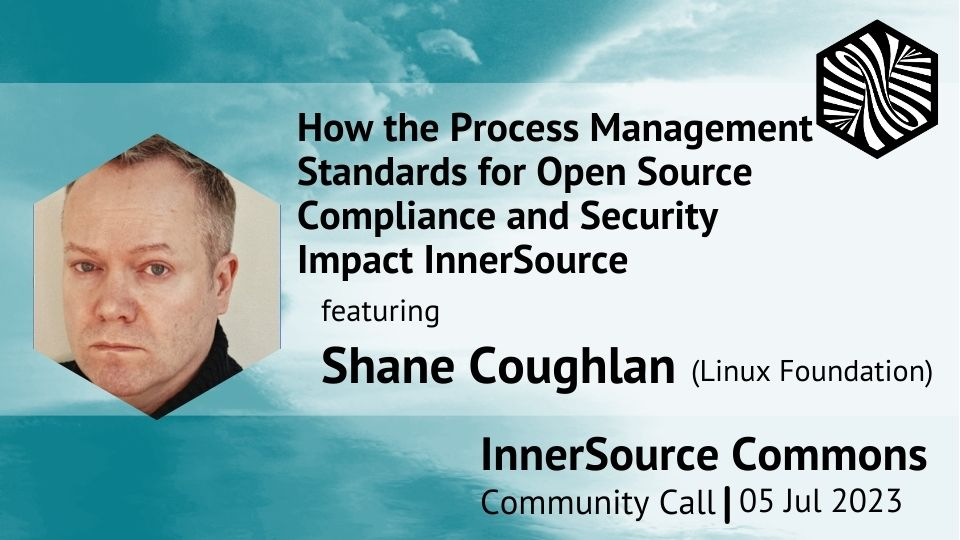
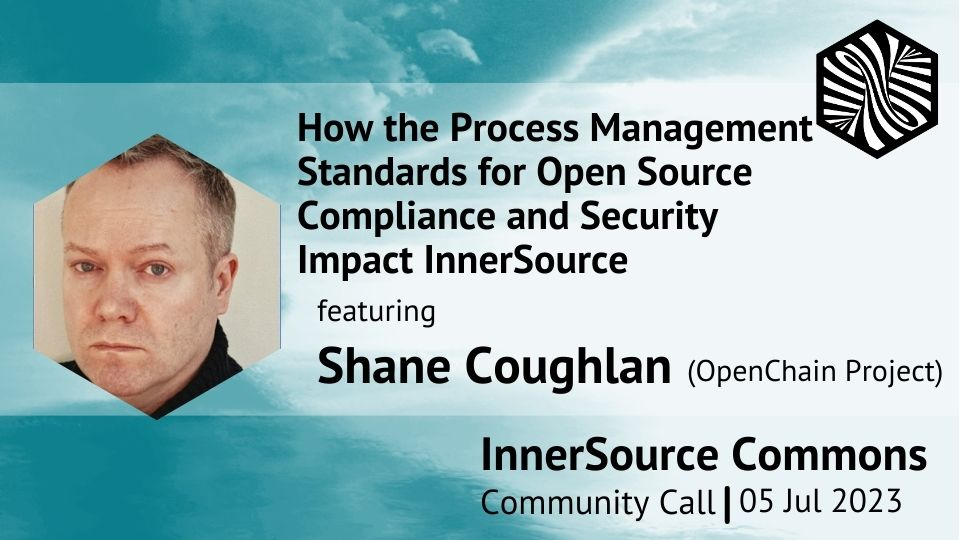
changing the slide for July 5th event (#569)
Changing the slide for July 5th event to reflect change in company name

Changed region(s): [[0.3125, 0.6222, 1.0, 0.7407], [0.3125, 0.563, 0.4688, 0.6222]]

diff --git a/content/en/events/meetup-2023-07-05.md b/content/en/events/meetup-2023-07-05.md
@@ -8,5 +8,5 @@ publishDate: 2023-06-19
 
 ---
 
-Join us on this community call to hear Shane Coughlan from the Linux Foundation discuss how the Process Management Standards for Open Source Compliance and Security Impact InnerSource
+Join us on this community call to hear Shane Coughlan from OpenChain Project at The Linux Foundation discuss how the Process Management Standards for Open Source Compliance and Security Impact InnerSource
 
